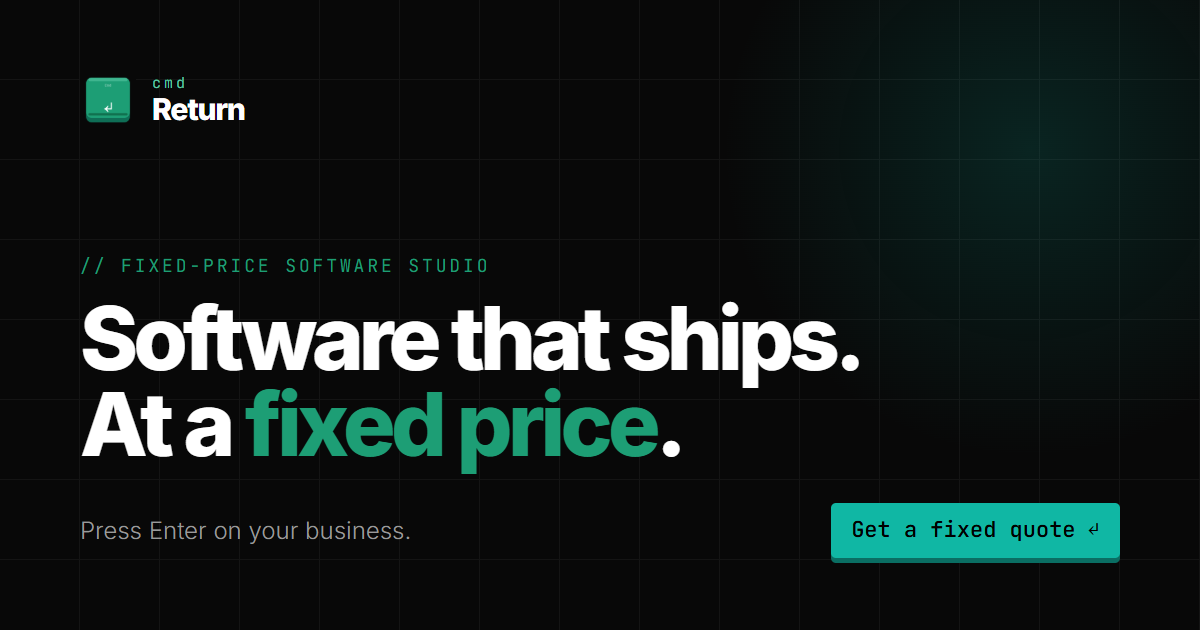
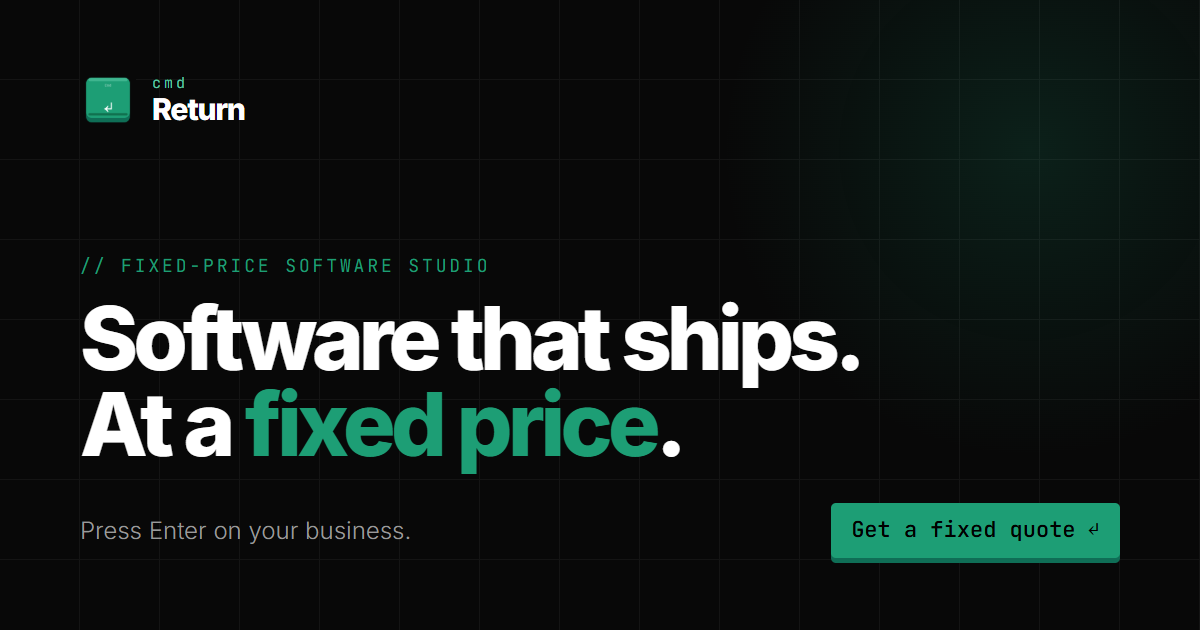
Use one teal (#1D9E75) site-wide; drop the 112 screens stat
- Keycaps, nav button, /offers marks and step rules now use #1D9E75
  (black text on it measures 6.2:1, so it stays black); key edge uses
  the existing #0F6E56, hover brightens instead of a second teal
- Mint removed from link hovers and /offers inline links; only the
  logo's "cmd" keeps it
- /work results: 112 screens removed, now three stats
- OG image regenerated in the same teal

Changed region(s): [[0.6783, 0.7841, 0.9558, 0.9048]]

diff --git a/app/page.tsx b/app/page.tsx
@@ -124,7 +124,7 @@ export default function Home() {
                     <p className="font-sans text-[14px] text-muted leading-[1.6] mt-2 flex-1">
                       {o.summary}
                     </p>
-                    <span className="font-mono text-[12px] text-teal group-hover:text-mint transition-colors duration-150 mt-5">
+                    <span className="font-mono text-[12px] text-teal group-hover:text-white transition-colors duration-150 mt-5">
                       Details →
                     </span>
                   </Link>
@@ -186,7 +186,7 @@ export default function Home() {
               <p className="font-mono text-[12px] text-[#7c7c7c] mt-6 leading-[1.8]">
                 POS · inventory · CRM · quoting · procurement · delivery
               </p>
-              <span className="inline-block font-mono text-[13px] text-teal group-hover:text-mint transition-colors duration-150 mt-8">
+              <span className="inline-block font-mono text-[13px] text-teal group-hover:text-white transition-colors duration-150 mt-8">
                 Read the case study →
               </span>
             </Link>
@@ -213,9 +213,9 @@ export default function Home() {
               <li key={step.title} className="list-none">
                 <ScrollReveal
                   delay={i * 0.06}
-                  className="border-t-2 border-[#10b7a4] pt-5"
+                  className="border-t-2 border-teal pt-5"
                 >
-                  <span className="block font-mono text-[13px] text-[#10b7a4] mb-3">
+                  <span className="block font-mono text-[13px] text-teal mb-3">
                     0{i + 1}
                   </span>
                   <h3 className="font-sans text-[17px] font-semibold text-white leading-[1.35] mb-3">
@@ -246,7 +246,7 @@ export default function Home() {
           <ScrollReveal delay={0.08}>
             <Link
               href="/about"
-              className="inline-block font-mono text-[13px] text-teal hover:text-mint transition-colors duration-150 mt-6"
+              className="inline-block font-mono text-[13px] text-teal hover:text-white transition-colors duration-150 mt-6"
             >
               About the founder →
             </Link>

diff --git a/app/work/page.tsx b/app/work/page.tsx
@@ -70,7 +70,6 @@ const operations = [
 const results = [
   { number: "3", label: "STORES RUNNING ON IT DAILY" },
   { number: "15+", label: "STAFF USING IT" },
-  { number: "112", label: "SCREENS BUILT AND SHIPPED" },
   { number: "3,600+", label: "AUTOMATED TESTS" },
 ];
 
@@ -207,9 +206,9 @@ export default function Work() {
               <ScrollReveal
                 key={item.label}
                 delay={i * 0.06}
-                className="border-t-2 border-[#10b7a4] pt-5"
+                className="border-t-2 border-teal pt-5"
               >
-                <p className="font-mono text-[11px] text-[#10b7a4] tracking-[0.14em] mb-3">
+                <p className="font-mono text-[11px] text-teal tracking-[0.14em] mb-3">
                   {item.label}
                 </p>
                 <h3 className="font-sans text-[18px] font-semibold text-white mb-3">
@@ -238,16 +237,12 @@ export default function Work() {
               The system three stores run on, every day.
             </h2>
           </ScrollReveal>
-          <div className="grid grid-cols-2 lg:grid-cols-4 gap-y-10">
+          <div className="grid grid-cols-1 sm:grid-cols-3">
             {results.map((stat, i) => (
               <ScrollReveal
                 key={stat.label}
                 delay={i * 0.06}
-                className={[
-                  "pr-4 border-border-subtle",
-                  i % 2 === 1 ? "pl-4 lg:pl-6 border-l" : "",
-                  i === 2 ? "lg:pl-6 lg:border-l" : "",
-                ].join(" ")}
+                className={`py-6 sm:py-0 sm:pr-6 border-border-subtle ${i > 0 ? "border-t sm:border-t-0 sm:border-l sm:pl-6 lg:pl-8" : "pt-0"}`}
               >
                 <span className="block font-sans font-[800] text-[40px] lg:text-[56px] text-white tracking-[-0.04em] leading-[1.1]">
                   {stat.number}

diff --git a/app/globals.css b/app/globals.css
@@ -69,7 +69,7 @@ body {
   }
 }
 
-/* ---------- keycap: the return-key button, in Signal teal ---------- */
+/* ---------- keycap: the return-key button, in the site teal ---------- */
 
 .cr-key {
   display: inline-flex;
@@ -80,26 +80,26 @@ body {
   line-height: 1;
   white-space: nowrap;
   color: #000000;
-  background: #10b7a4; /* Signal teal */
+  background: #1d9e75; /* site teal; black text passes AA (about 6.2:1) */
   border: 0;
   border-radius: 0.22em;
   padding: 0.62em 0.95em 0.7em;
   text-decoration: none;
   cursor: pointer;
-  box-shadow: 0 0.22em 0 #0a6e63;
+  box-shadow: 0 0.22em 0 #0f6e56; /* key edge, as in the logo */
   transform: translateY(0);
   transition: transform 90ms ease-out, box-shadow 90ms ease-out,
-    background-color 150ms ease-out;
+    filter 150ms ease-out;
 }
 .cr-key:hover {
-  background: #2cc8b5;
+  filter: brightness(1.12);
   color: #000000;
   text-decoration: none;
 }
 .cr-key:active,
 .cr-key.is-pressed {
   transform: translateY(0.16em);
-  box-shadow: 0 0.06em 0 #0a6e63;
+  box-shadow: 0 0.06em 0 #0f6e56;
 }
 .cr-key:focus-visible {
   outline: 2px solid #ffffff;

diff --git a/app/offers/offers.css b/app/offers/offers.css
@@ -12,8 +12,8 @@
   --cr-muted: #8a8a8a;
   --cr-rule: #222222;
   --cr-rule-soft: #1a1a1a;
-  --cr-signal: #10b7a4;      /* Signal teal: keycaps, marks */
-  --cr-link: #5dcaa5;        /* mint: inline links on dark */
+  --cr-signal: #1d9e75;      /* site teal: keycaps, marks */
+  --cr-link: var(--cr-signal); /* inline links use the same teal */
   --cr-font: var(--font-inter), system-ui, sans-serif;
   --cr-mono: var(--font-jetbrains-mono), ui-monospace, monospace;
 
@@ -59,7 +59,7 @@
   font-family: var(--cr-mono);
   font-size: 11px;
   letter-spacing: 0.18em;
-  color: #1d9e75;
+  color: var(--cr-signal);
 }
 
 .cr-hero h1 {

diff --git a/app/institutional/page.tsx b/app/institutional/page.tsx
@@ -108,7 +108,7 @@ export default function Institutional() {
           <ScrollReveal delay={0.16}>
             <Link
               href="/contact"
-              className="inline-block font-mono text-[13px] text-teal hover:text-mint transition-colors duration-150 mt-8"
+              className="inline-block font-mono text-[13px] text-teal hover:text-white transition-colors duration-150 mt-8"
             >
               Request an institutional overview →
             </Link>
